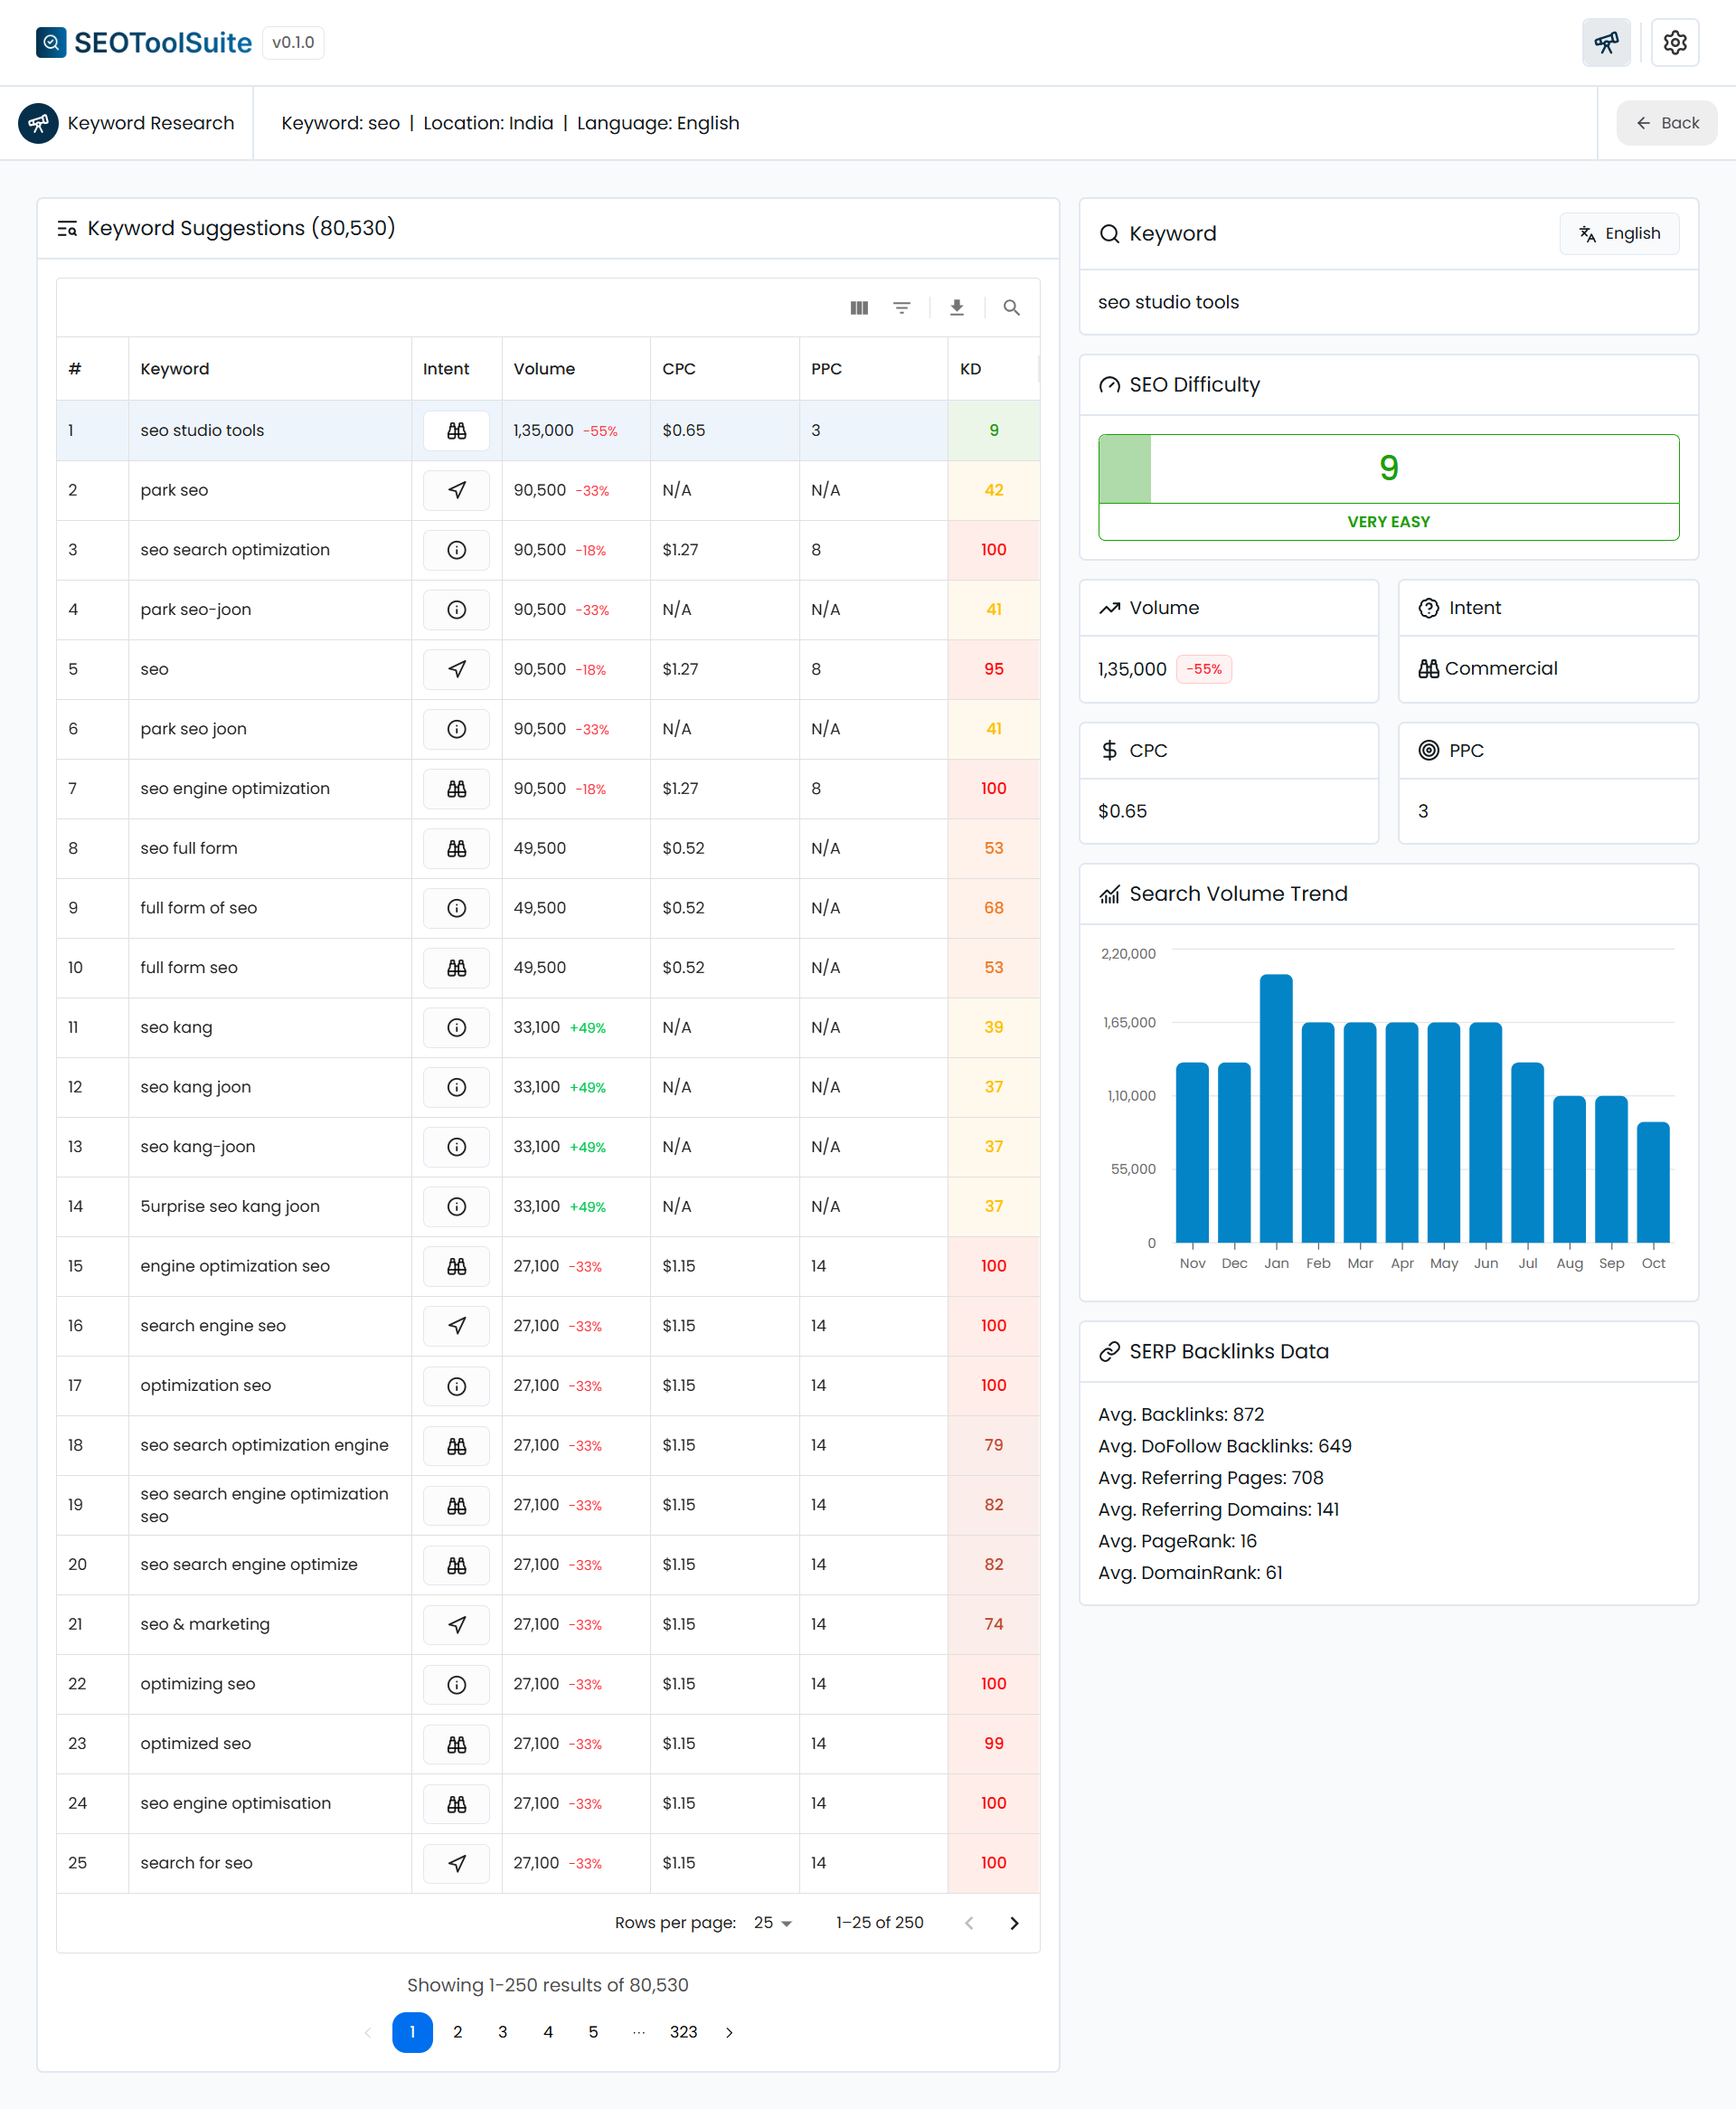
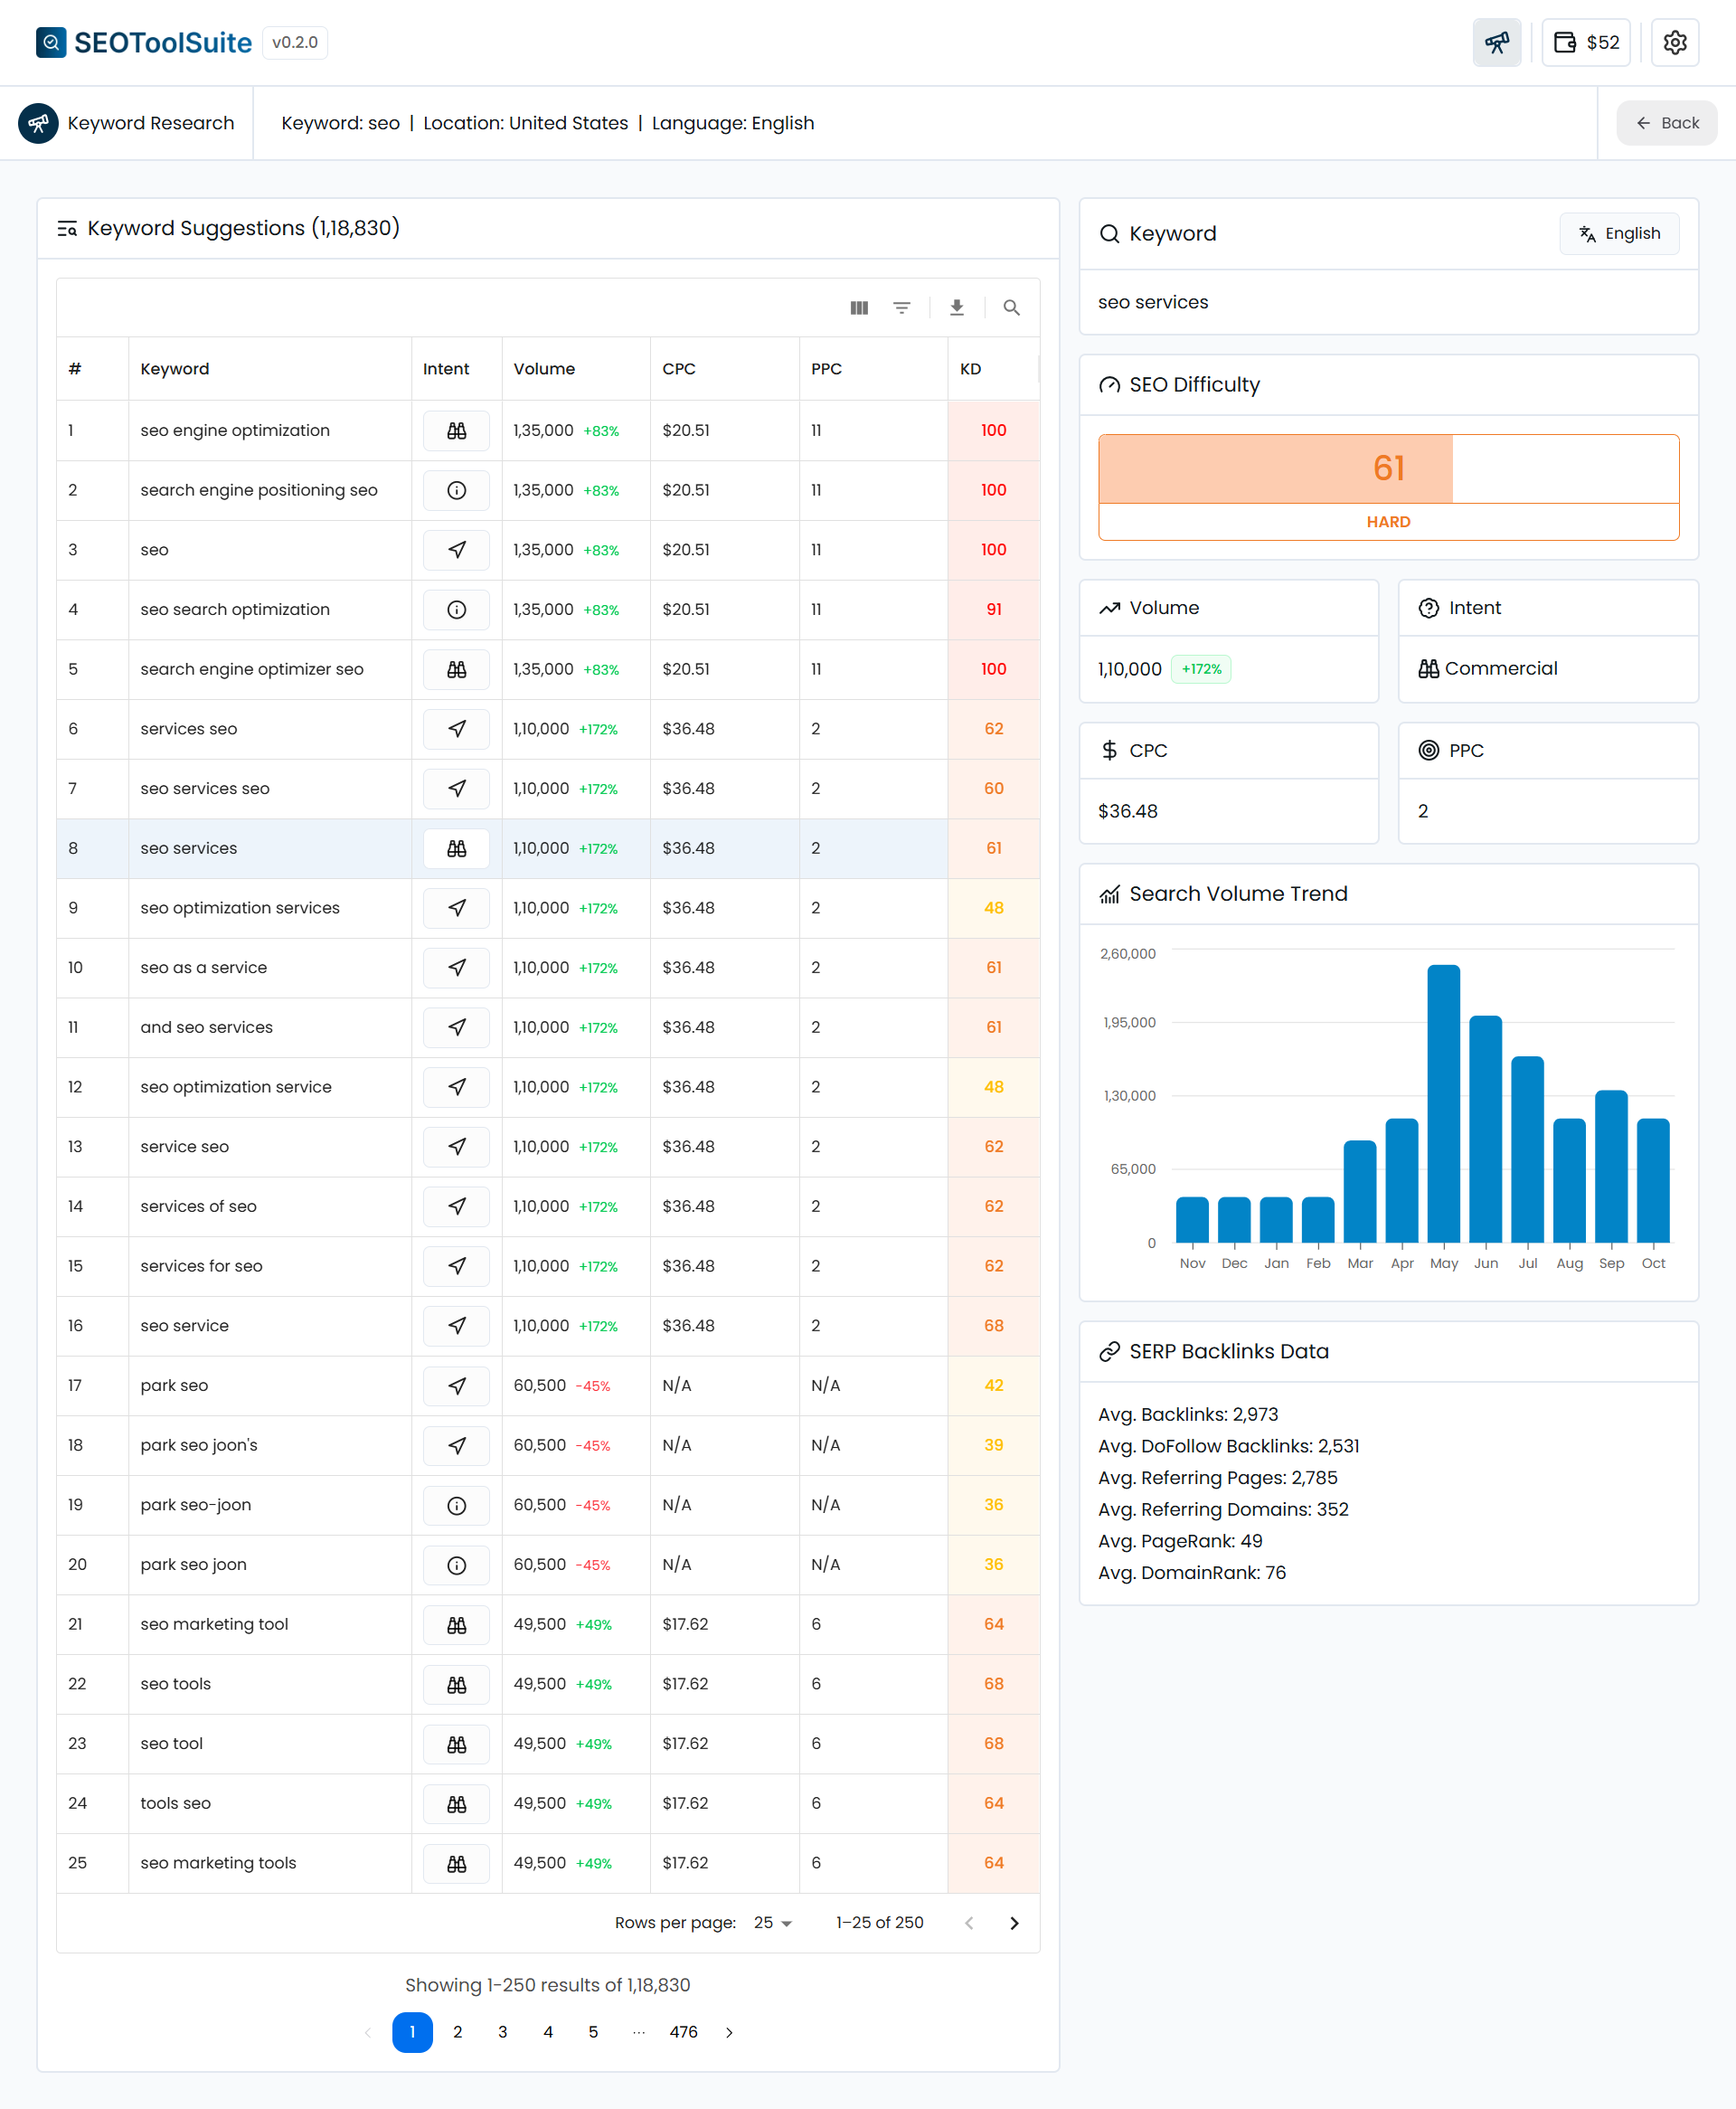
chore: update files for v0.2.0 release

diff --git a/src/env/index.ts b/src/env/index.ts
@@ -1,1 +1,1 @@
-export const APP_VERSION: string = "0.1.0";
+export const APP_VERSION: string = "0.2.0";

diff --git a/CHANGELOG.md b/CHANGELOG.md
@@ -1,5 +1,9 @@
 # SEOToolSuite Changelog
 
+## v0.2.0
+
+- Added DataForSEO account balance box in header.
+
 ## v0.1.0
 
 - Initial release.
